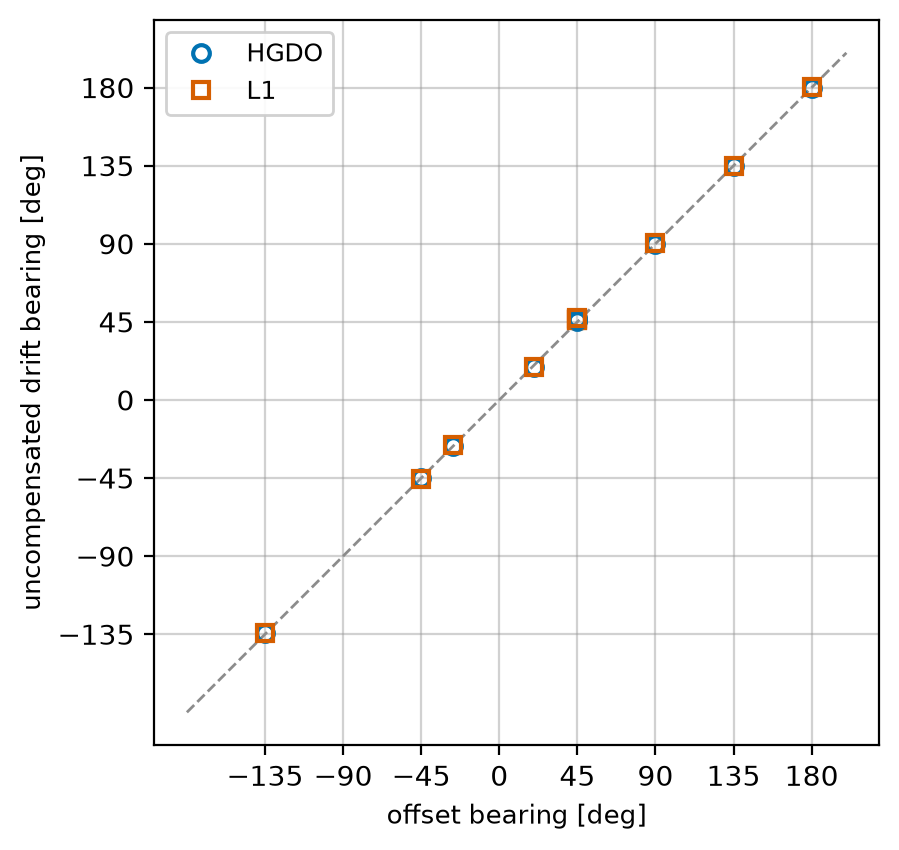
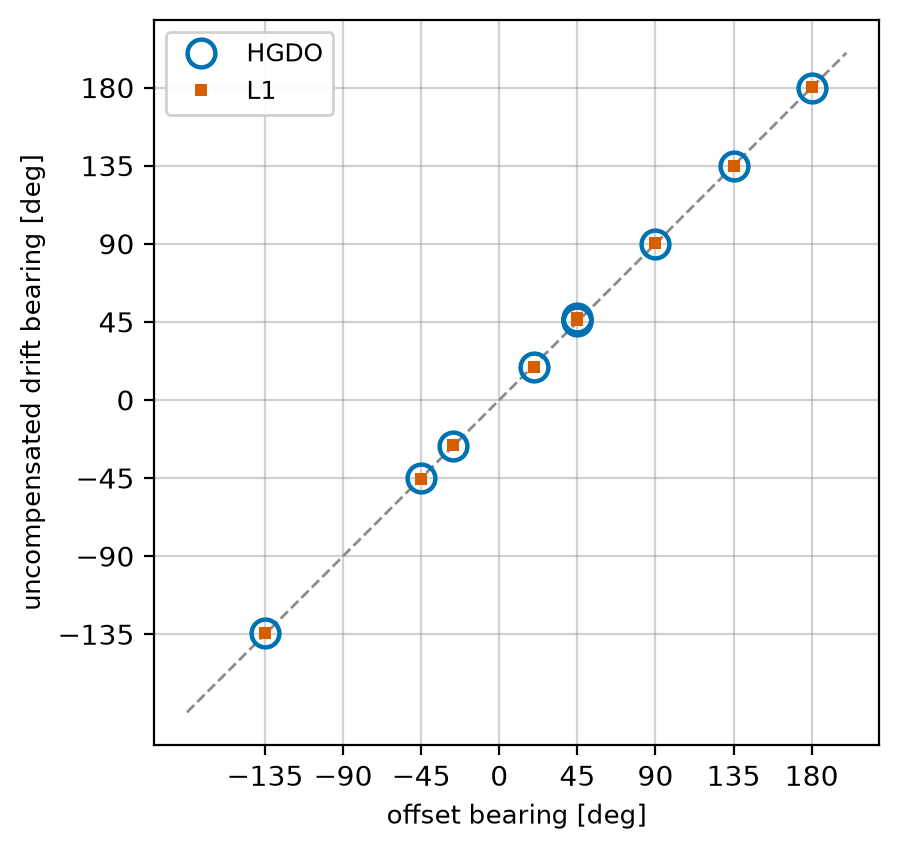
Make HGDO and L1 compass markers distinguishable when coincident
The two controllers drift along nearly the same bearing in every case,
so the compass markers sat on top of each other. Draw HGDO as a large
open circle and L1 as a small filled square so coincident points render
concentrically; data coordinates are untouched.

diff --git a/analysis/freeflight_sim_summary.py b/analysis/freeflight_sim_summary.py
@@ -157,9 +157,16 @@ def main():
                 got -= 360
             if want - got > 180:
                 got += 360
-            ax.plot(want, got, MRK[ctrl], ms=6, mfc='none', mew=1.5,
-                    color=COL[ctrl], zorder=3,
-                    label=ctrl if case == order[0] else None)
+            # the two controllers drift along nearly the same bearing,
+            # so concentric sizes keep both visible when they coincide
+            if ctrl == 'HGDO':
+                ax.plot(want, got, MRK[ctrl], ms=10, mfc='none',
+                        mew=1.6, color=COL[ctrl], zorder=3,
+                        label=ctrl if case == order[0] else None)
+            else:
+                ax.plot(want, got, MRK[ctrl], ms=4.2, mfc=COL[ctrl],
+                        mew=0.0, color=COL[ctrl], zorder=4,
+                        label=ctrl if case == order[0] else None)
     ax.set_xticks(np.arange(-135, 181, 45))
     ax.set_yticks(np.arange(-135, 181, 45))
     ax.set_xlabel('offset bearing [deg]', fontsize=9.5)
